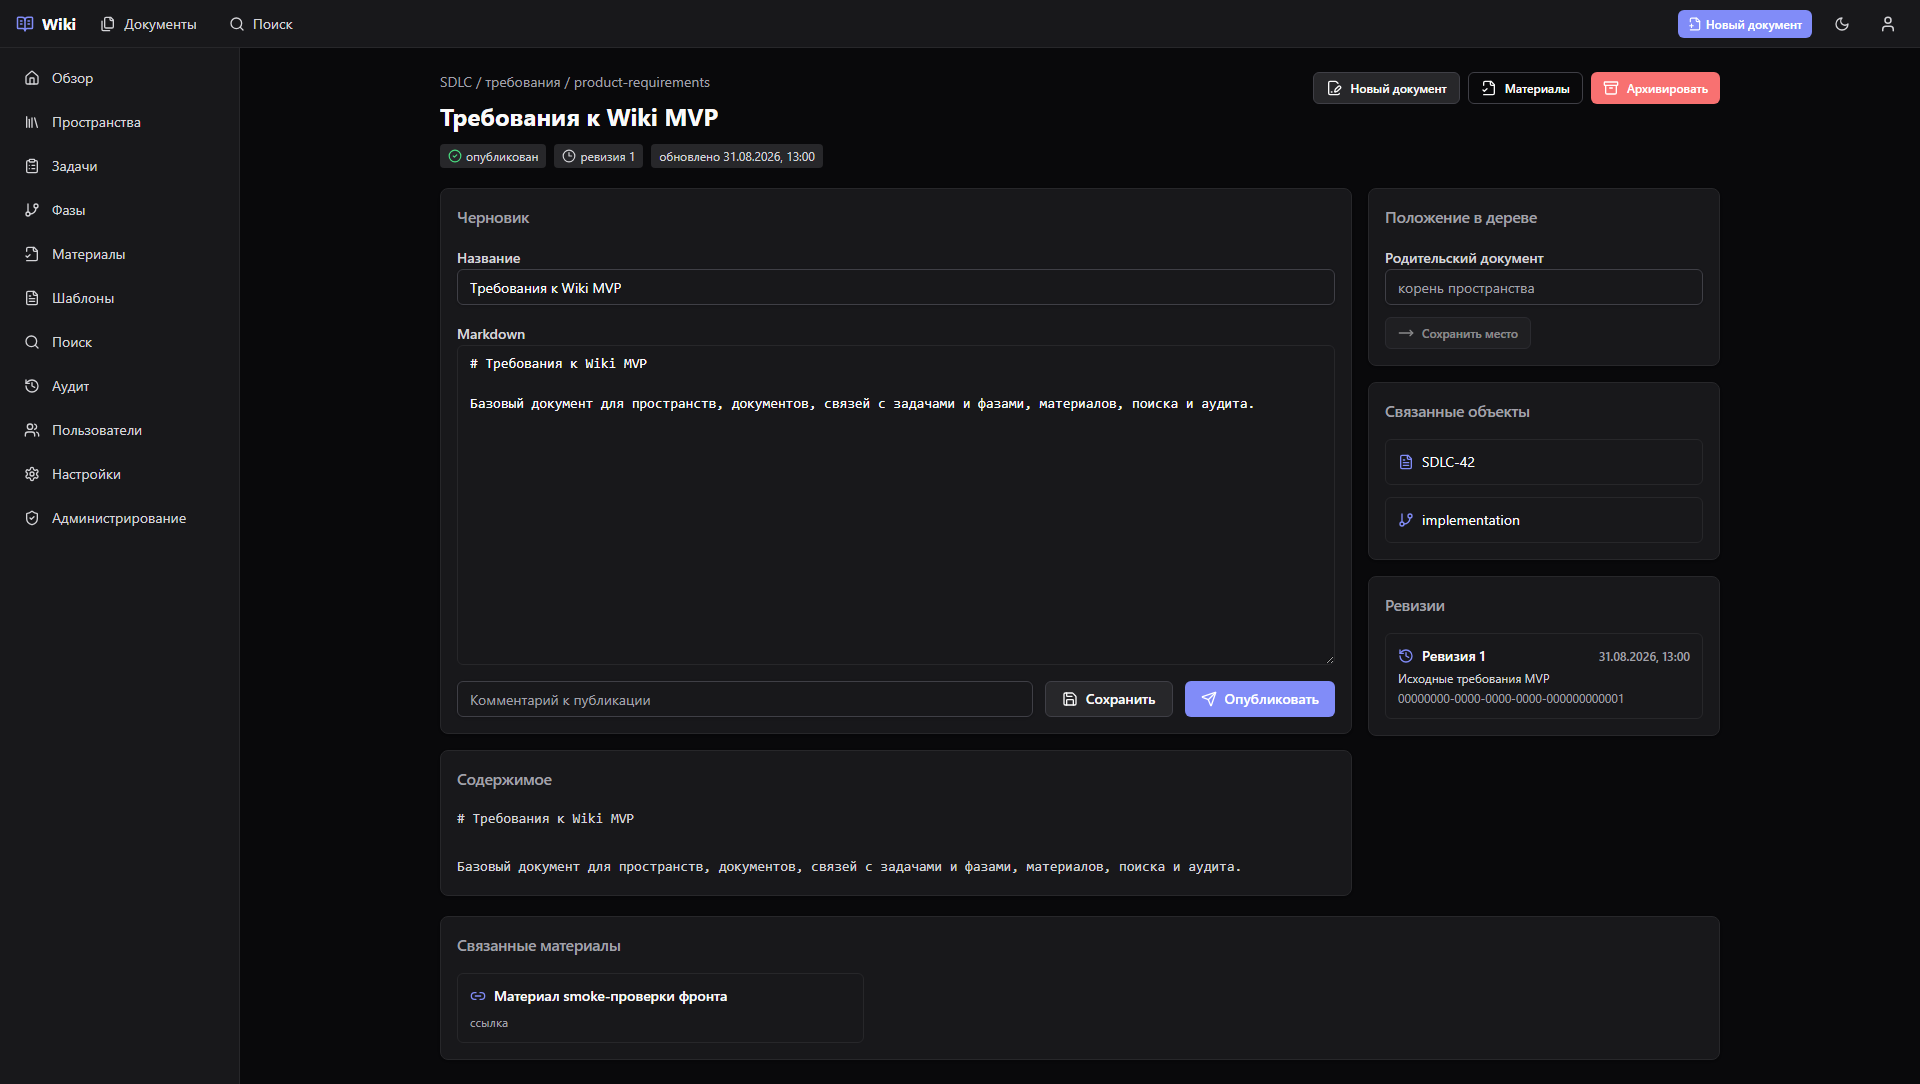
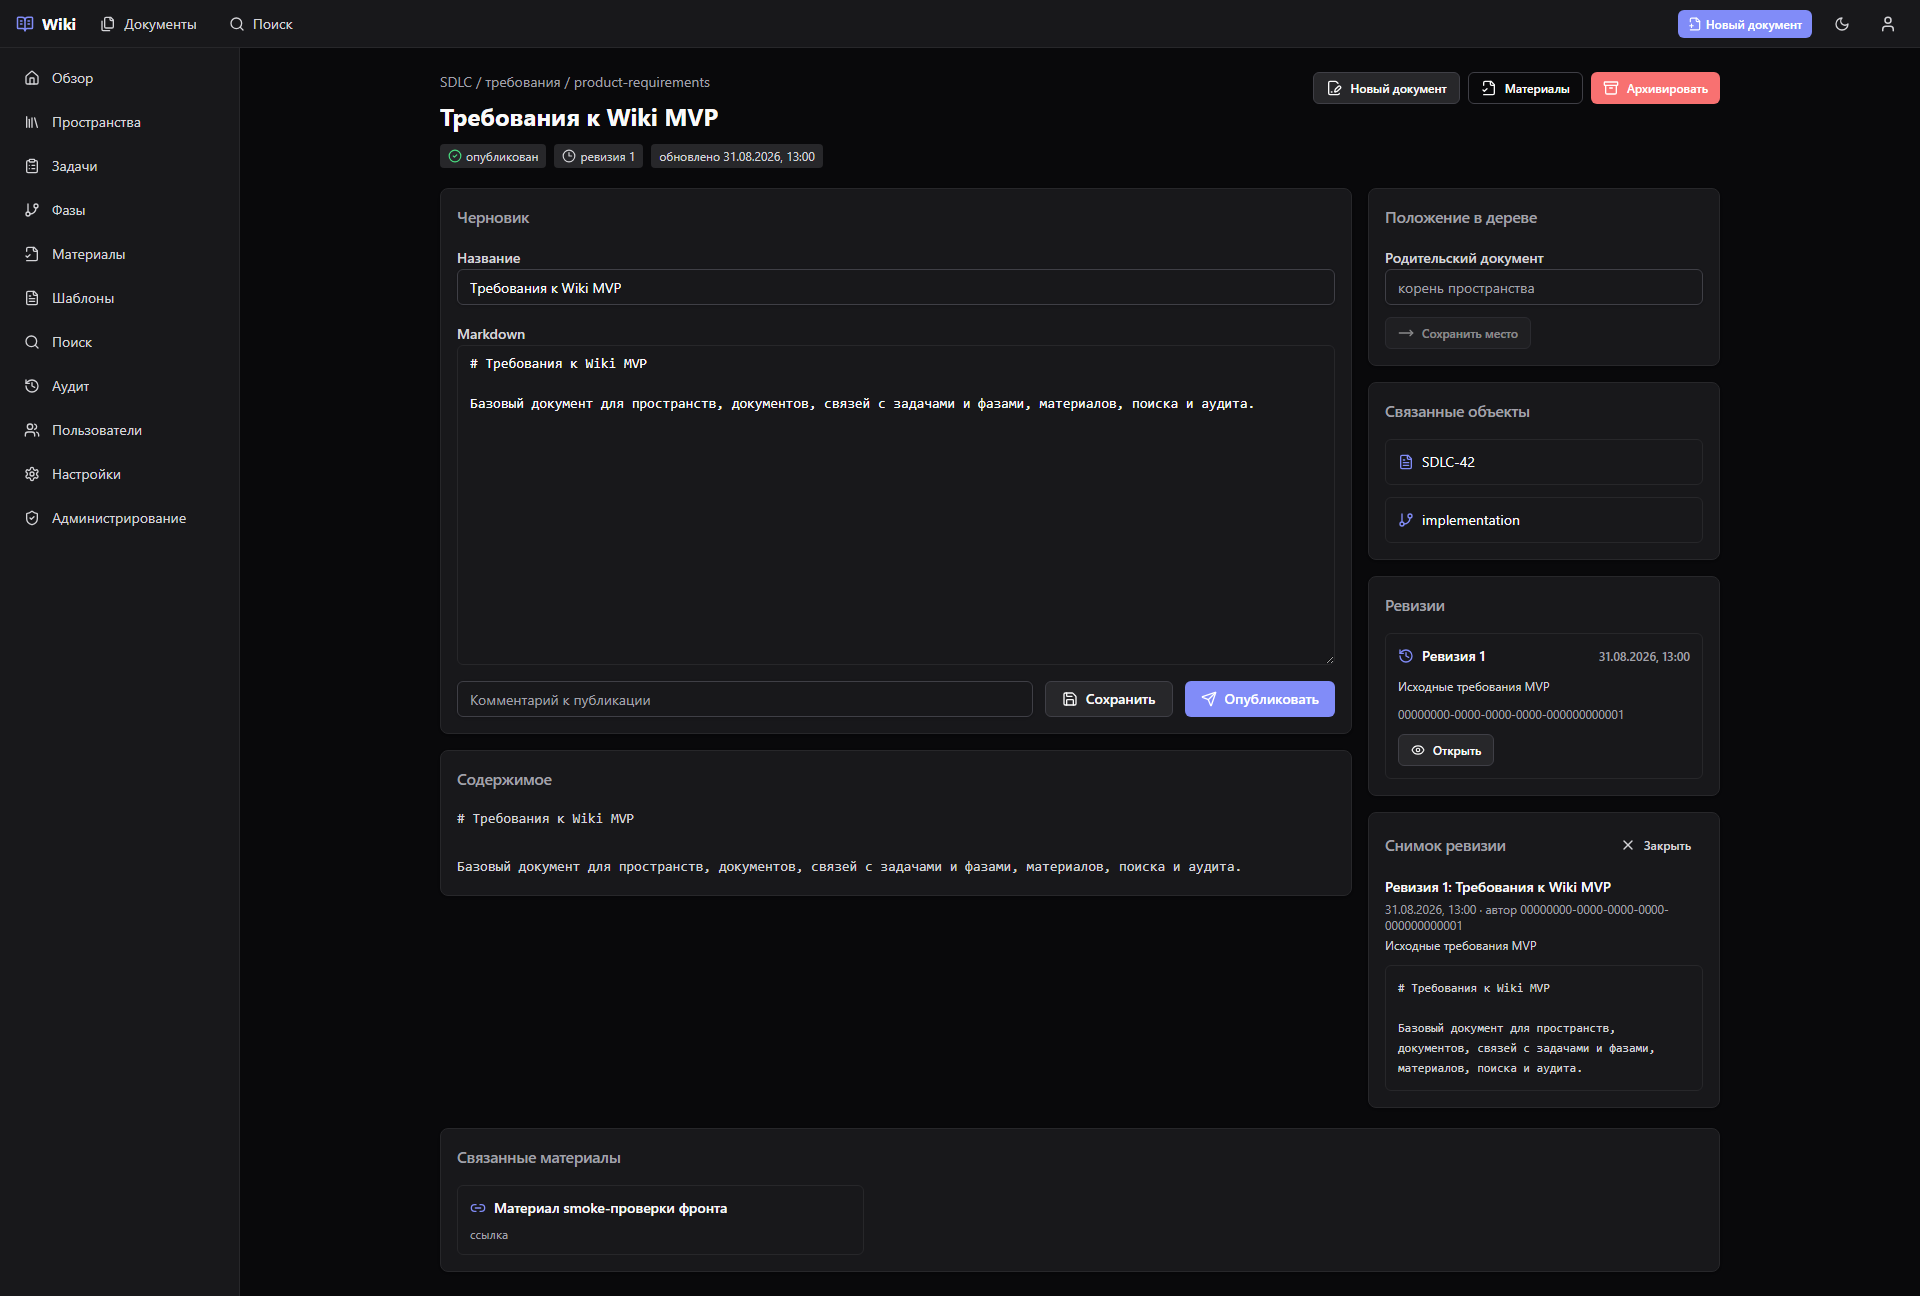
feat(frontend): open document revision snapshots

diff --git a/frontend/src/pages/document/index.tsx b/frontend/src/pages/document/index.tsx
@@ -4,6 +4,7 @@ import {
   Archive,
   CheckCircle2,
   Clock3,
+  Eye,
   FileCheck2,
   FilePenLine,
   FileText,
@@ -13,10 +14,12 @@ import {
   MoveRight,
   Save,
   Send,
+  X,
 } from 'lucide-react'
 import {
   useArchiveDocument,
   useDocument,
+  useDocumentRevision,
   useDocumentRevisions,
   useMoveDocument,
   usePublishDocument,
@@ -52,6 +55,13 @@ export function DocumentPage() {
   const moveDocument = useMoveDocument()
   const document = documentQuery.data
   const revisions = revisionsQuery.data?.revisions ?? []
+  const [selectedRevisionId, setSelectedRevisionId] = useState<string | null>(null)
+  const selectedRevisionQuery = useDocumentRevision(
+    documentId,
+    selectedRevisionId ?? '',
+    selectedRevisionId !== null,
+  )
+  const selectedRevision = selectedRevisionQuery.data
   const [draftTitle, setDraftTitle] = useState('')
   const [draftBody, setDraftBody] = useState('')
   const [publishSummary, setPublishSummary] = useState('')
@@ -69,6 +79,7 @@ export function DocumentPage() {
     setPublishSummary('')
     setStatusMessage('')
     setIsPublishingFlow(false)
+    setSelectedRevisionId(null)
     setLoadedDocumentId(document.id)
   }, [document, loadedDocumentId])
 
@@ -394,13 +405,14 @@ export function DocumentPage() {
                     revisionsQuery.error,
                     'Не удалось загрузить ревизии',
                   )}
+                  onRetry={() => revisionsQuery.refetch()}
                 />
               )}
               {!revisionsQuery.isLoading && !revisionsQuery.isError && revisions.length === 0 && (
                 <EmptyState message="Ревизий пока нет" />
               )}
               {revisions.map((revision) => (
-                <div key={revision.id} className="rounded-md border border-border p-3">
+                <div key={revision.id} className="space-y-3 rounded-md border border-border p-3">
                   <div className="flex items-center justify-between gap-3 text-sm font-medium">
                     <span className="inline-flex items-center gap-2">
                       <History className="h-4 w-4 text-accent" />
@@ -414,10 +426,71 @@ export function DocumentPage() {
                     {shortText(revision.summary, 'Без описания изменений')}
                   </p>
                   <p className="mt-1 text-xs text-text-muted">{revision.author_id}</p>
+                  <Button
+                    type="button"
+                    size="sm"
+                    variant={selectedRevisionId === revision.id ? 'secondary' : 'outline'}
+                    onClick={() => setSelectedRevisionId(revision.id)}
+                  >
+                    <Eye className="h-3.5 w-3.5" />
+                    Открыть
+                  </Button>
                 </div>
               ))}
             </CardContent>
           </Card>
+
+          {selectedRevisionId && (
+            <Card>
+              <CardHeader>
+                <div className="flex items-center justify-between gap-3">
+                  <CardTitle className="text-base">Снимок ревизии</CardTitle>
+                  <Button
+                    type="button"
+                    size="sm"
+                    variant="ghost"
+                    onClick={() => setSelectedRevisionId(null)}
+                  >
+                    <X className="h-4 w-4" />
+                    Закрыть
+                  </Button>
+                </div>
+              </CardHeader>
+              <CardContent className="space-y-3">
+                {selectedRevisionQuery.isLoading && (
+                  <LoadingState message="Загружаем снимок ревизии" />
+                )}
+                {selectedRevisionQuery.isError && (
+                  <ErrorState
+                    message={formatApiErrorForUser(
+                      selectedRevisionQuery.error,
+                      'Не удалось открыть ревизию',
+                    )}
+                    onRetry={() => selectedRevisionQuery.refetch()}
+                  />
+                )}
+                {selectedRevision && (
+                  <>
+                    <div className="space-y-1 text-sm">
+                      <div className="font-medium">
+                        Ревизия {selectedRevision.version}: {selectedRevision.title}
+                      </div>
+                      <div className="text-xs text-text-muted">
+                        {formatDateTime(selectedRevision.published_at)} · автор{' '}
+                        {selectedRevision.author_id}
+                      </div>
+                      <p className="text-xs text-text-secondary">
+                        {shortText(selectedRevision.summary, 'Без описания изменений')}
+                      </p>
+                    </div>
+                    <pre className="max-h-96 overflow-auto whitespace-pre-wrap rounded-md border border-border bg-surface p-3 text-xs leading-5 text-text-secondary">
+                      {selectedRevision.body_markdown}
+                    </pre>
+                  </>
+                )}
+              </CardContent>
+            </Card>
+          )}
         </div>
       </section>
 

diff --git a/frontend/src/pages/document/document.test.tsx b/frontend/src/pages/document/document.test.tsx
@@ -8,6 +8,7 @@ import { DocumentPage } from './'
 
 const useArchiveDocument = vi.hoisted(() => vi.fn())
 const useDocument = vi.hoisted(() => vi.fn())
+const useDocumentRevision = vi.hoisted(() => vi.fn())
 const useDocumentRevisions = vi.hoisted(() => vi.fn())
 const useMoveDocument = vi.hoisted(() => vi.fn())
 const usePublishDocument = vi.hoisted(() => vi.fn())
@@ -22,6 +23,7 @@ const updateDraftMutateAsync = vi.hoisted(() => vi.fn())
 vi.mock('@/shared/api/hooks', () => ({
   useArchiveDocument,
   useDocument,
+  useDocumentRevision,
   useDocumentRevisions,
   useMoveDocument,
   usePublishDocument,
@@ -85,7 +87,16 @@ function setupDocument(document: Document = baseDocument) {
     data: { revisions: [baseRevision] },
     isLoading: false,
     isError: false,
+    refetch: vi.fn(),
   })
+  useDocumentRevision.mockImplementation(
+    (_documentId: string, revisionId: string, enabled: boolean) => ({
+      data: enabled && revisionId === baseRevision.id ? baseRevision : undefined,
+      isLoading: false,
+      isError: false,
+      refetch: vi.fn(),
+    }),
+  )
   useUpdateDocumentDraft.mockReturnValue({
     mutate: updateDraftMutate,
     mutateAsync: updateDraftMutateAsync,
@@ -136,6 +147,17 @@ describe('DocumentPage', () => {
       '/phases/implementation',
     )
     expect(screen.getByRole('link', { name: /Smoke proof/ })).toHaveAttribute('href', '/evidence')
+  })
+
+  it('opens a specific immutable revision through the revision detail hook', () => {
+    setupDocument()
+
+    fireEvent.click(screen.getByRole('button', { name: 'Открыть' }))
+
+    expect(useDocumentRevision).toHaveBeenLastCalledWith('product-requirements', 'revision-2', true)
+    expect(screen.getByRole('heading', { name: 'Снимок ревизии' })).toBeInTheDocument()
+    expect(screen.getByText('Ревизия 2: Требования Wiki')).toBeInTheDocument()
+    expect(screen.getAllByText('# Published')).toHaveLength(2)
   })
 
   it('sends draft and tree move mutations from visible form state', () => {

diff --git a/frontend/e2e/smoke.spec.ts b/frontend/e2e/smoke.spec.ts
@@ -189,6 +189,13 @@ async function installWikiApiMocks(page: Page) {
     if (method === 'GET' && path === '/documents/product-requirements/revisions') {
       return routeJson(route, { revisions: currentRevisions })
     }
+    if (method === 'GET' && path.startsWith('/documents/product-requirements/revisions/')) {
+      const revisionId = path.split('/').pop()
+      const revision = currentRevisions.find((item) => item.id === revisionId)
+      return revision
+        ? routeJson(route, revision)
+        : routeJson(route, { code: 'NOT_FOUND', message: 'Revision not found' }, 404)
+    }
     if (method === 'PUT' && path === '/documents/product-requirements/draft') {
       const body = request.postDataJSON() as { title?: string; content_markdown: string }
       documentDraftRequests.push(body)
@@ -335,6 +342,9 @@ test.describe('wiki smoke', () => {
       )
       .toBe(true)
     await expect(page.getByText('Опубликована ревизия 2')).toBeVisible()
+    await page.getByRole('button', { name: 'Открыть' }).first().click()
+    await expect(page.getByRole('heading', { name: 'Снимок ревизии' })).toBeVisible()
+    await expect(page.getByText('Ревизия 2: Требования к Wiki MVP')).toBeVisible()
 
     await page.goto(`${baseURL}/tasks/SDLC-42`)
     await expect(page.getByRole('heading', { name: 'SDLC-42' })).toBeVisible()

diff --git a/frontend/src/shared/api/hooks.ts b/frontend/src/shared/api/hooks.ts
@@ -10,6 +10,7 @@ import {
   createUser,
   deleteSpaceMember,
   getDocument,
+  getDocumentRevision,
   getWikiSettings,
   getPhase,
   getSpaceTree,
@@ -59,6 +60,8 @@ export const wikiKeys = {
   document: (documentId: string) => ['wiki', 'documents', documentId] as const,
   documentRevisions: (documentId: string) =>
     ['wiki', 'documents', documentId, 'revisions'] as const,
+  documentRevision: (documentId: string, revisionId: string) =>
+    ['wiki', 'documents', documentId, 'revisions', revisionId] as const,
   tasks: (spaceKey: string) => ['wiki', 'spaces', spaceKey, 'tasks'] as const,
   task: (spaceKey: string, taskKey: string) =>
     ['wiki', 'spaces', spaceKey, 'tasks', taskKey] as const,
@@ -257,6 +260,14 @@ export function useDocumentRevisions(documentId: string) {
     queryKey: wikiKeys.documentRevisions(documentId),
     queryFn: () => listDocumentRevisions(documentId),
     enabled: Boolean(documentId),
+  })
+}
+
+export function useDocumentRevision(documentId: string, revisionId: string, enabled = true) {
+  return useQuery({
+    queryKey: wikiKeys.documentRevision(documentId, revisionId),
+    queryFn: () => getDocumentRevision(documentId, revisionId),
+    enabled: enabled && Boolean(documentId) && Boolean(revisionId),
   })
 }
 

diff --git a/frontend/src/api/wiki.ts b/frontend/src/api/wiki.ts
@@ -200,6 +200,15 @@ export function listDocumentRevisions(documentId: string): Promise<DocumentRevis
   )
 }
 
+export function getDocumentRevision(
+  documentId: string,
+  revisionId: string,
+): Promise<DocumentRevision> {
+  return apiRequest<DocumentRevision>(
+    `/api/v1/documents/${encodeURIComponent(documentId)}/revisions/${encodeURIComponent(revisionId)}`,
+  )
+}
+
 export function listTasks(spaceKey: string): Promise<TaskPageListResponse> {
   return apiRequest<TaskPageListResponse>(`/api/v1/spaces/${encodeURIComponent(spaceKey)}/tasks`)
 }

diff --git a/frontend/src/shared/api/hooks.test.tsx b/frontend/src/shared/api/hooks.test.tsx
@@ -23,6 +23,7 @@ vi.mock('@/api/wiki', () => ({
   createUser: vi.fn(),
   deleteSpaceMember: vi.fn(),
   getDocument: vi.fn(),
+  getDocumentRevision: vi.fn(),
   getPhase: vi.fn(),
   getSpaceTree: vi.fn(),
   getTask: vi.fn(),

diff --git a/docs/assets/screens/manifest.md b/docs/assets/screens/manifest.md
@@ -23,7 +23,7 @@
 | [03-dashboard.png](../../screenshots/03-dashboard.png)                       | `/`                               | Dashboard Wiki, последние документы и task-связи | 1920x1080 |
 | [04-spaces.png](../../screenshots/04-spaces.png)                             | `/spaces`                         | Пространства, дерево документов и доступы        | 1920x1080 |
 | [05-document-compose.png](../../screenshots/05-document-compose.png)         | `/documents/new`                  | Создание документа                               | 1920x1080 |
-| [06-document-view.png](../../screenshots/06-document-view.png)               | `/documents/product-requirements` | Просмотр, редактирование и публикация документа  | 1920x1084 |
+| [06-document-view.png](../../screenshots/06-document-view.png)               | `/documents/product-requirements` | Просмотр, редактирование, публикация и ревизии   | 1920x1296 |
 | [07-task-dossiers.png](../../screenshots/07-task-dossiers.png)               | `/tasks`                          | Карточки задач                                   | 1920x1080 |
 | [08-task-dossier-detail.png](../../screenshots/08-task-dossier-detail.png)   | `/tasks/SDLC-42`                  | Документы и фазы задачи                          | 1920x1080 |
 | [09-phase-dossiers.png](../../screenshots/09-phase-dossiers.png)             | `/phases`                         | Карточки фаз workflow                            | 1920x1080 |
@@ -42,7 +42,7 @@
 | ------------------------------------------------------------ | --------------------------------- | --------------------------- | -------- |
 | [m-dashboard.png](../../screenshots/m-dashboard.png)         | `/`                               | Dashboard mobile layout     | 375x1000 |
 | [m-spaces.png](../../screenshots/m-spaces.png)               | `/spaces`                         | Spaces mobile layout        | 375x1404 |
-| [m-document-view.png](../../screenshots/m-document-view.png) | `/documents/product-requirements` | Document view mobile layout | 375x1892 |
+| [m-document-view.png](../../screenshots/m-document-view.png) | `/documents/product-requirements` | Document view mobile layout | 375x1952 |
 | [m-task-dossier.png](../../screenshots/m-task-dossier.png)   | `/tasks/SDLC-42`                  | Task page mobile layout     | 375x812  |
 | [m-search.png](../../screenshots/m-search.png)               | `/search`                         | Search mobile layout        | 375x850  |
 

diff --git a/docs/CURRENT_STATE.md b/docs/CURRENT_STATE.md
@@ -29,7 +29,7 @@
 - Auth: register/login/refresh/logout/current user, disabled registration policy and safe runtime settings.
 - Users and roles: admin user list/create/update plus space member role management.
 - Spaces: list/create/update/archive, member list/upsert/delete and page tree.
-- Documents: create/get/draft/publish/archive/move, immutable revisions and latest-first revision history.
+- Documents: create/get/draft/publish/archive/move, immutable revision detail and latest-first revision history.
 - Task/phase dossiers: list/detail, linked documents and linked evidence by external keys.
 - Evidence and attachments: URL evidence, staged file upload, file evidence claim, attachment metadata and download.
 - Search: document/evidence search with MVP filters and permission boundaries.
@@ -41,7 +41,7 @@
 
 - Latest backend WSL regression after readiness, FTS query, attachment upload hardening, compose cleanup and shared tracker cleanup: `cargo fmt --all -- --check`, `cargo check --workspace`, `cargo test --workspace -- --test-threads=1 --nocapture`, `cargo clippy --workspace --all-targets -- -D warnings`.
 - Focused PostgreSQL test group passes against an isolated temporary WSL PostgreSQL database through `pwsh -File scripts/postgres-smoke-wsl.ps1`; the same test group also compiles and safely skips without `WIKI_TEST_DATABASE_URL`.
-- Latest frontend regression after documentation/test changes: `npm run typecheck`, `npm run test`, `npm run lint`, `npm run format:check`, `npm run build`, `npm run test:e2e -- --project=chromium`.
+- Latest frontend regression after space management and revision detail UI: `npm run typecheck`, `npm run test`, `npm run lint`, `npm run format:check`, `npm run build`, `npm run test:e2e -- --project=chromium`.
 - Docker PostgreSQL smoke runner syntax check passed; `pwsh -File scripts/postgres-smoke.ps1` currently stops with a clear Docker-daemon unavailable message on this host because `com.docker.service` cannot be started from this process.
 - `docker compose config` and `docker compose -f backend/docker-compose.test.yml config` render the MVP service set without extra cache/worker services.
 - Screenshot script passed against `vite preview`: `npm run shoot:evidence` captured 17 desktop and 5 mobile MVP screenshots.

diff --git a/docs/PAGE_DESIGN.md b/docs/PAGE_DESIGN.md
@@ -80,7 +80,7 @@ Document view includes:
 - parent document field for moving within the tree;
 - primary body content;
 - linked task and phase;
-- revision timeline;
+- revision timeline and selected immutable revision snapshot;
 - related documents and related evidence materials.
 
 ## 7. Tasks And Phases
